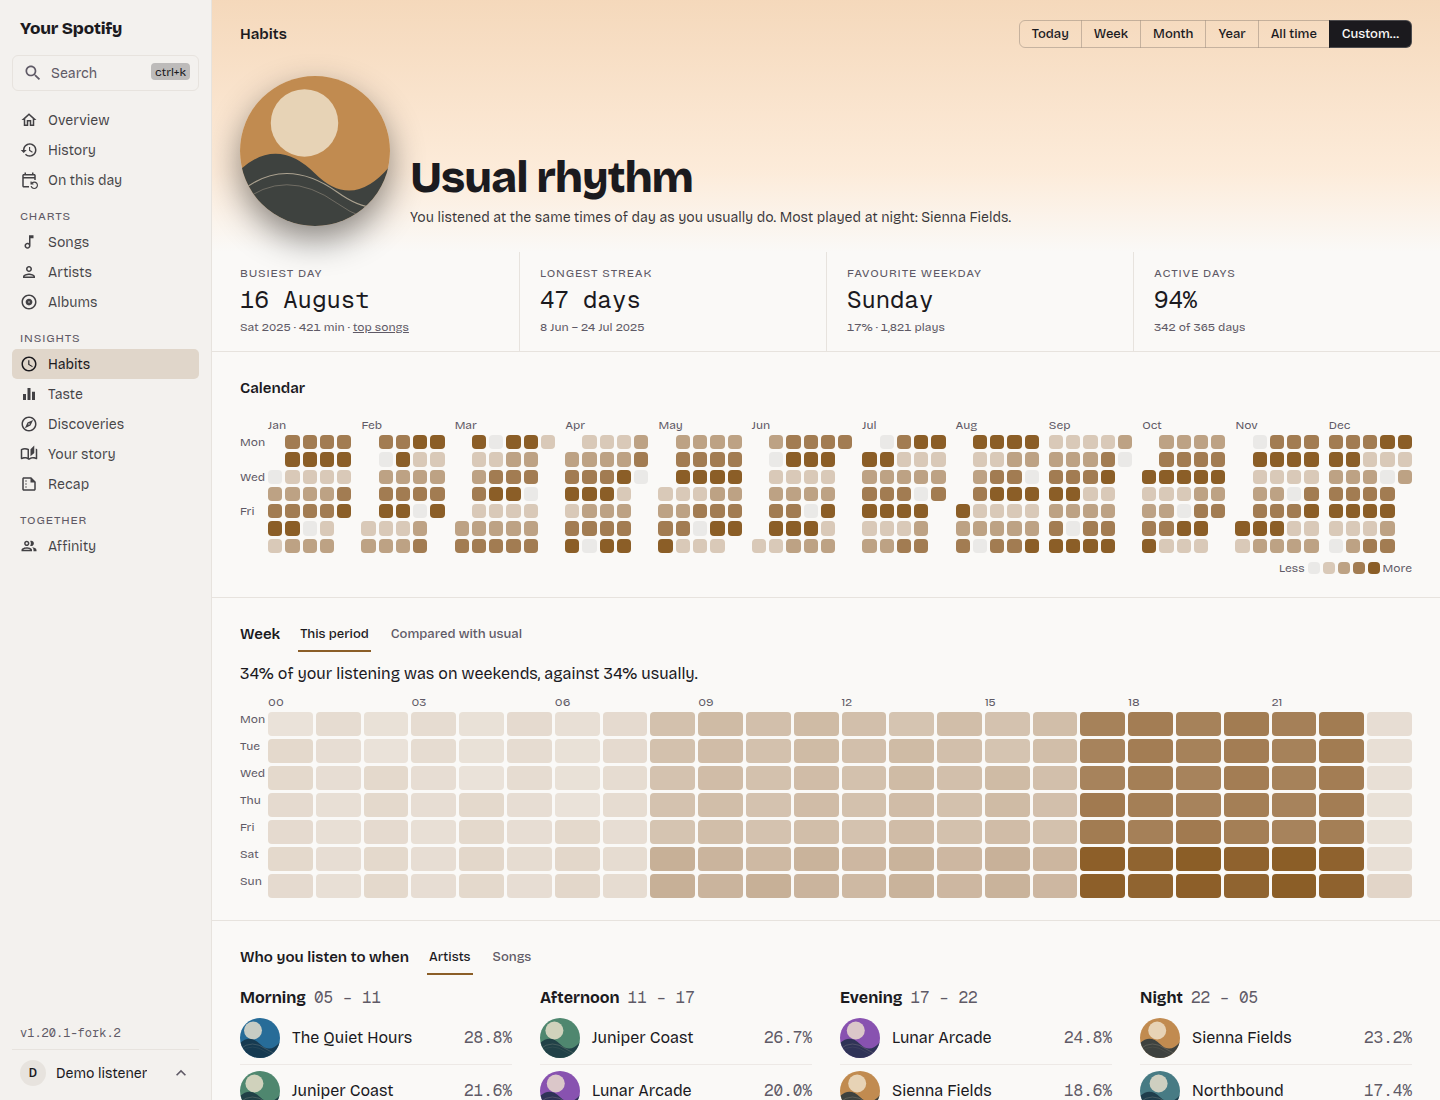
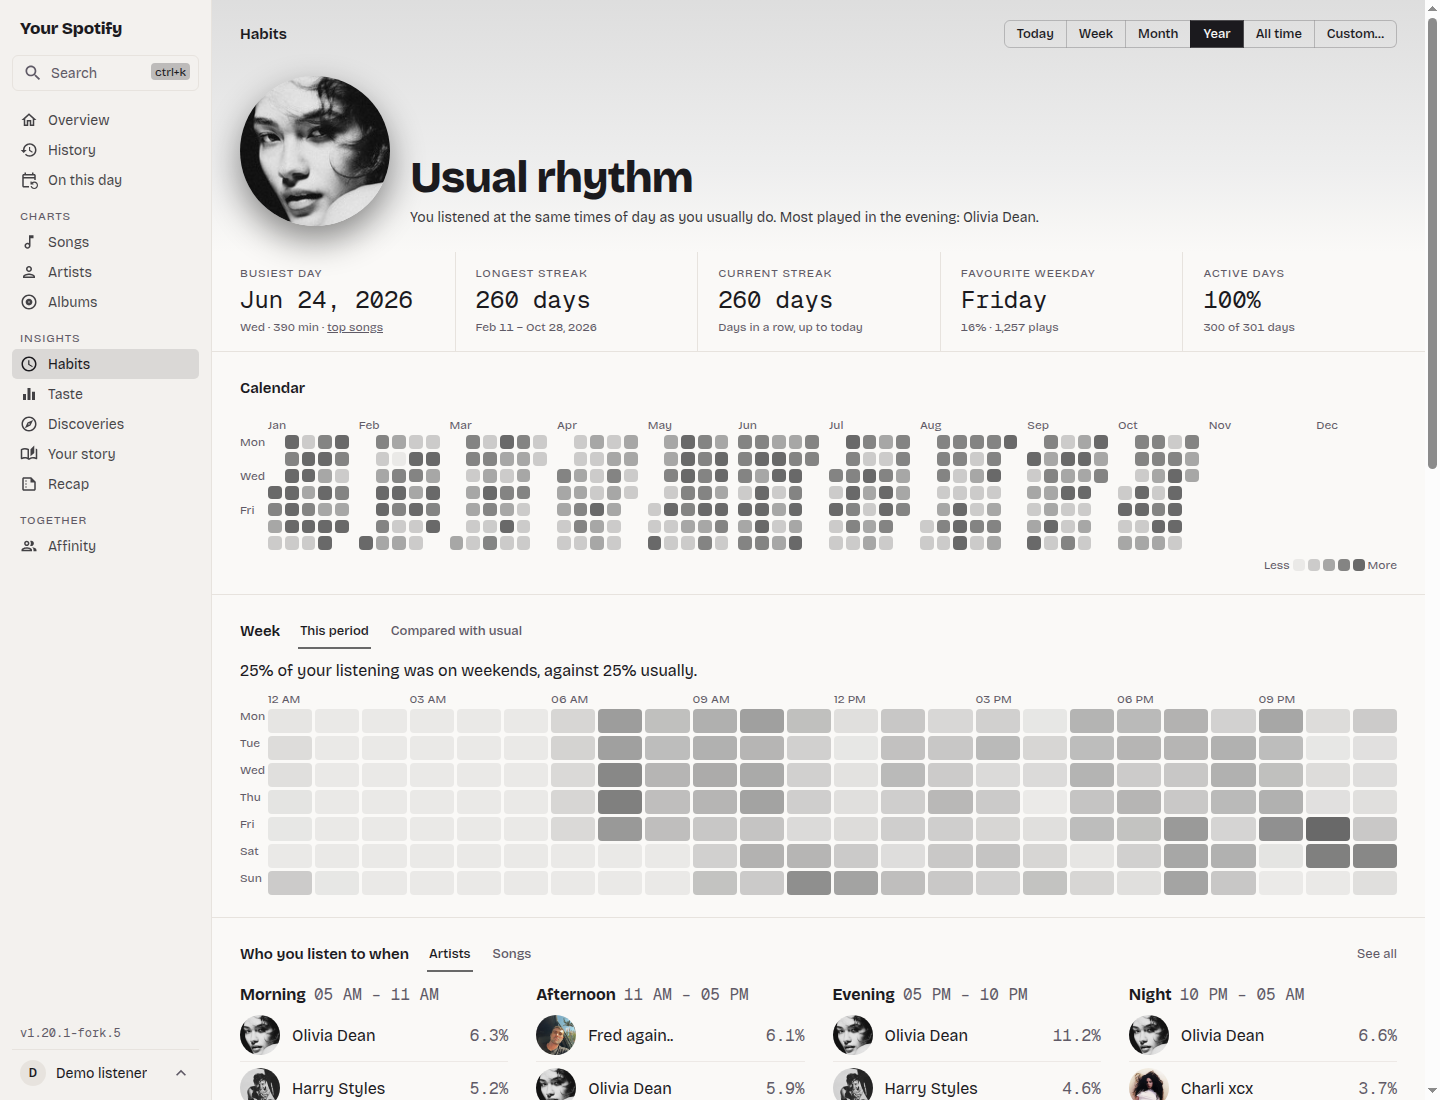
update readme screenshots

diff --git a/README.md b/README.md
@@ -3,7 +3,7 @@
 ![Checks](https://github.com/TheTastyHanuta/your_spotify/actions/workflows/checks.yml/badge.svg)
 
 <p align='center'>
-  <img width="100%" src="docs/screenshots/overview-dark.png" alt="Overview in dark mode, showing listening totals, period comparisons, charts and top songs with fictional sample data">
+  <img width="100%" src="docs/screenshots/overview-dark.png" alt="Overview in dark mode for this year, showing listening totals compared with last year, listening over time, top songs and top artists">
 </p>
 <p align="center">
   <sub>Overview <a href="#screenshots">More screenshots</a></sub>
@@ -59,16 +59,24 @@ It consists of a server that regularly asks Spotify what you played and stores i
 
 ## Screenshots
 
-The screenshots use fictional listening data, names and artwork. Click an image to view it at full size.
+The screenshots show a made-up listening history built from real songs and artists. Click an image to view it at full size.
 
-| Habits · light theme                                                                                                                                                           | Song charts · dark theme                                                                                                                               |
-| ------------------------------------------------------------------------------------------------------------------------------------------------------------------------------ | ------------------------------------------------------------------------------------------------------------------------------------------------------ |
-| [![Habits in light mode with a listening calendar, weekday and hour heatmap and artists by time of day](docs/screenshots/habits-light.png)](docs/screenshots/habits-light.png) | [![Song rankings in dark mode with play counts, listening time and album details](docs/screenshots/charts-dark.png)](docs/screenshots/charts-dark.png) |
+| Habits · light theme                                                                                                                                                                      | Taste · dark theme                                                                                                                                        |
+| ----------------------------------------------------------------------------------------------------------------------------------------------------------------------------------------- | --------------------------------------------------------------------------------------------------------------------------------------------------------- |
+| [![Habits in light mode with streaks, a listening calendar, a weekday and hour heatmap and artists by time of day](docs/screenshots/habits-light.png)](docs/screenshots/habits-light.png) | [![Taste in dark mode with musical age, genres and the most played release years](docs/screenshots/taste-dark.png)](docs/screenshots/taste-dark.png)      |
+| **Discoveries · dark theme**                                                                                                                                                              | **Your story · light theme**                                                                                                                              |
+| [![Discoveries in dark mode with new artists and new songs of this year](docs/screenshots/discoveries-dark.png)](docs/screenshots/discoveries-dark.png)                                   | [![Your story in light mode with forgotten favorite songs and artists](docs/screenshots/story-light.png)](docs/screenshots/story-light.png)               |
+| **Recap · dark theme**                                                                                                                                                                    | **Song page · light theme**                                                                                                                               |
+| [![Recap of 2025 in dark mode with numbers compared with 2024 and the top songs, artists and albums](docs/screenshots/recap-dark.png)](docs/screenshots/recap-dark.png)                   | [![A song page in light mode with plays per month and when the song got you hooked](docs/screenshots/song-light.png)](docs/screenshots/song-light.png)    |
+| **Artist page · dark theme**                                                                                                                                                              | **Song charts · light theme**                                                                                                                             |
+| [![An artist page in dark mode with genres, plays per month and the most played songs and albums](docs/screenshots/artist-dark.png)](docs/screenshots/artist-dark.png)                    | [![Song rankings in light mode with play counts, listening time and album details](docs/screenshots/charts-light.png)](docs/screenshots/charts-light.png) |
 
 On phones, the dashboard switches to a single column with navigation along the bottom:
 
 <p align="center">
-  <a href="docs/screenshots/overview-mobile.png"><img width="280" src="docs/screenshots/overview-mobile.png" alt="Overview on a phone, showing listening statistics, a listening chart and the bottom navigation bar"></a>
+  <a href="docs/screenshots/recap-mobile.png"><img width="280" src="docs/screenshots/recap-mobile.png" alt="Recap on a phone in dark mode, showing the top artist of the year and numbers compared with the year before"></a>
+  &nbsp;
+  <a href="docs/screenshots/artist-mobile.png"><img width="280" src="docs/screenshots/artist-mobile.png" alt="An artist page on a phone in light mode, showing play statistics and plays per month"></a>
 </p>
 
 ## Prerequisites
